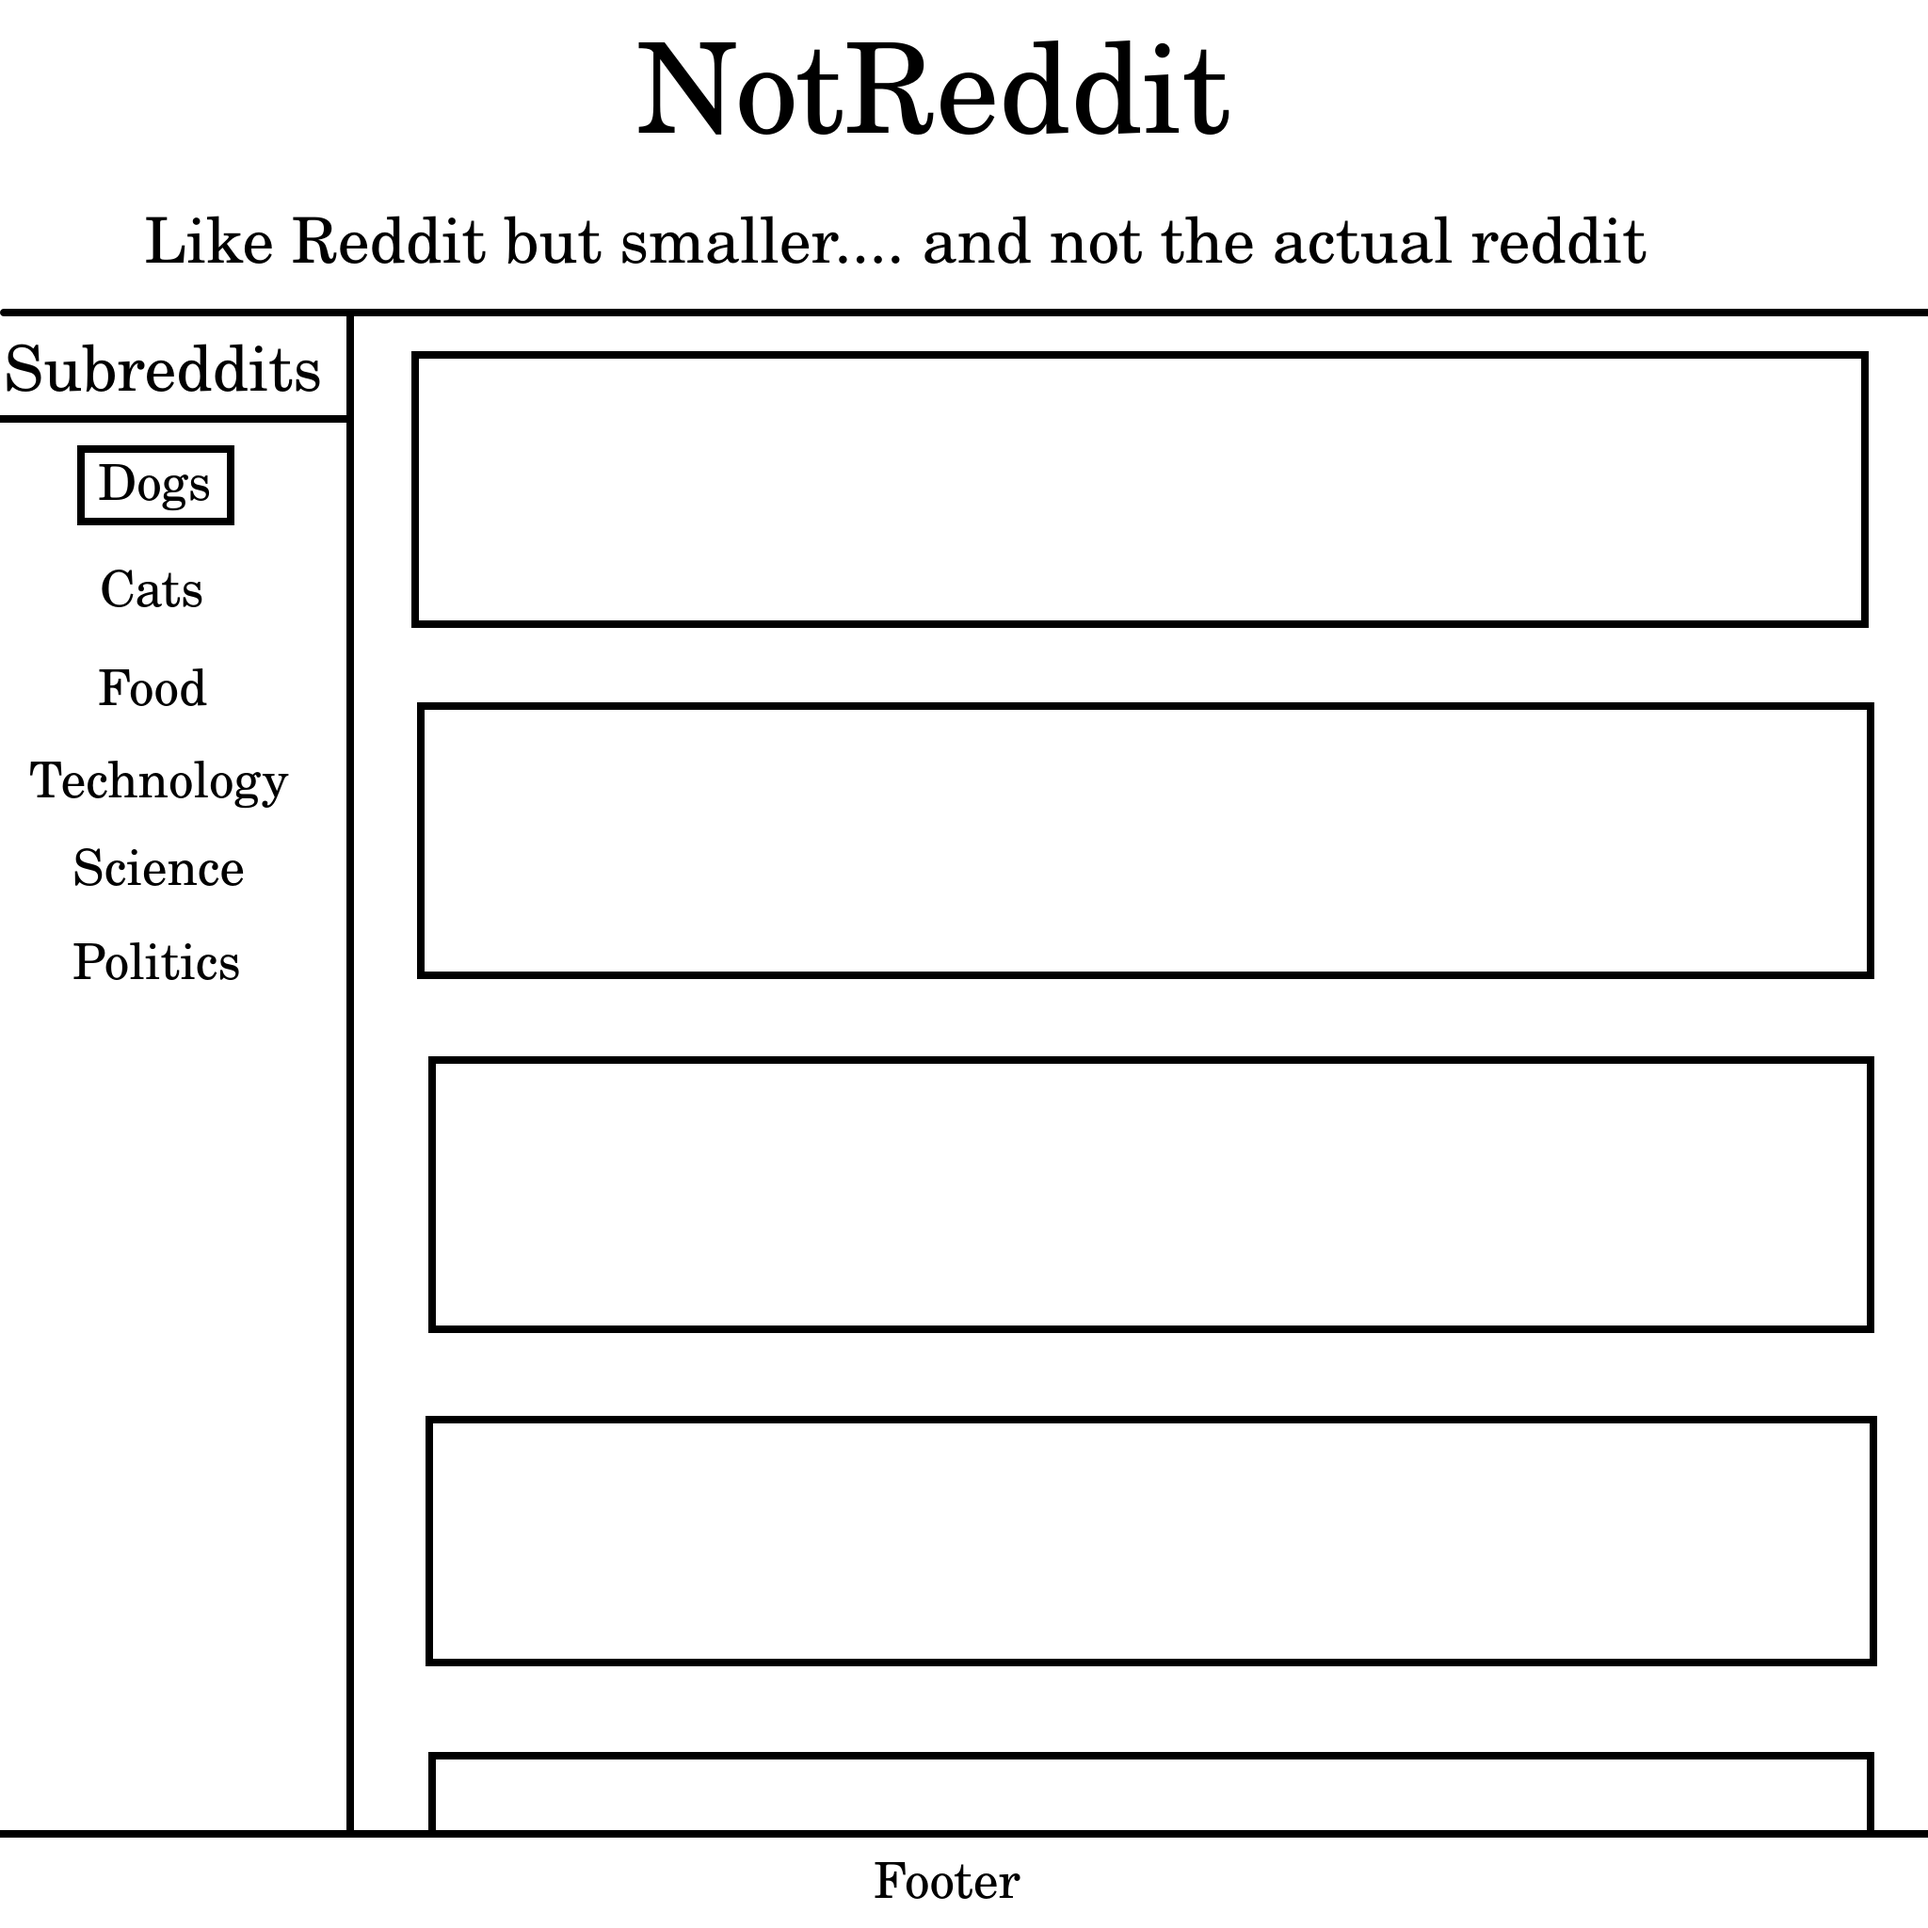
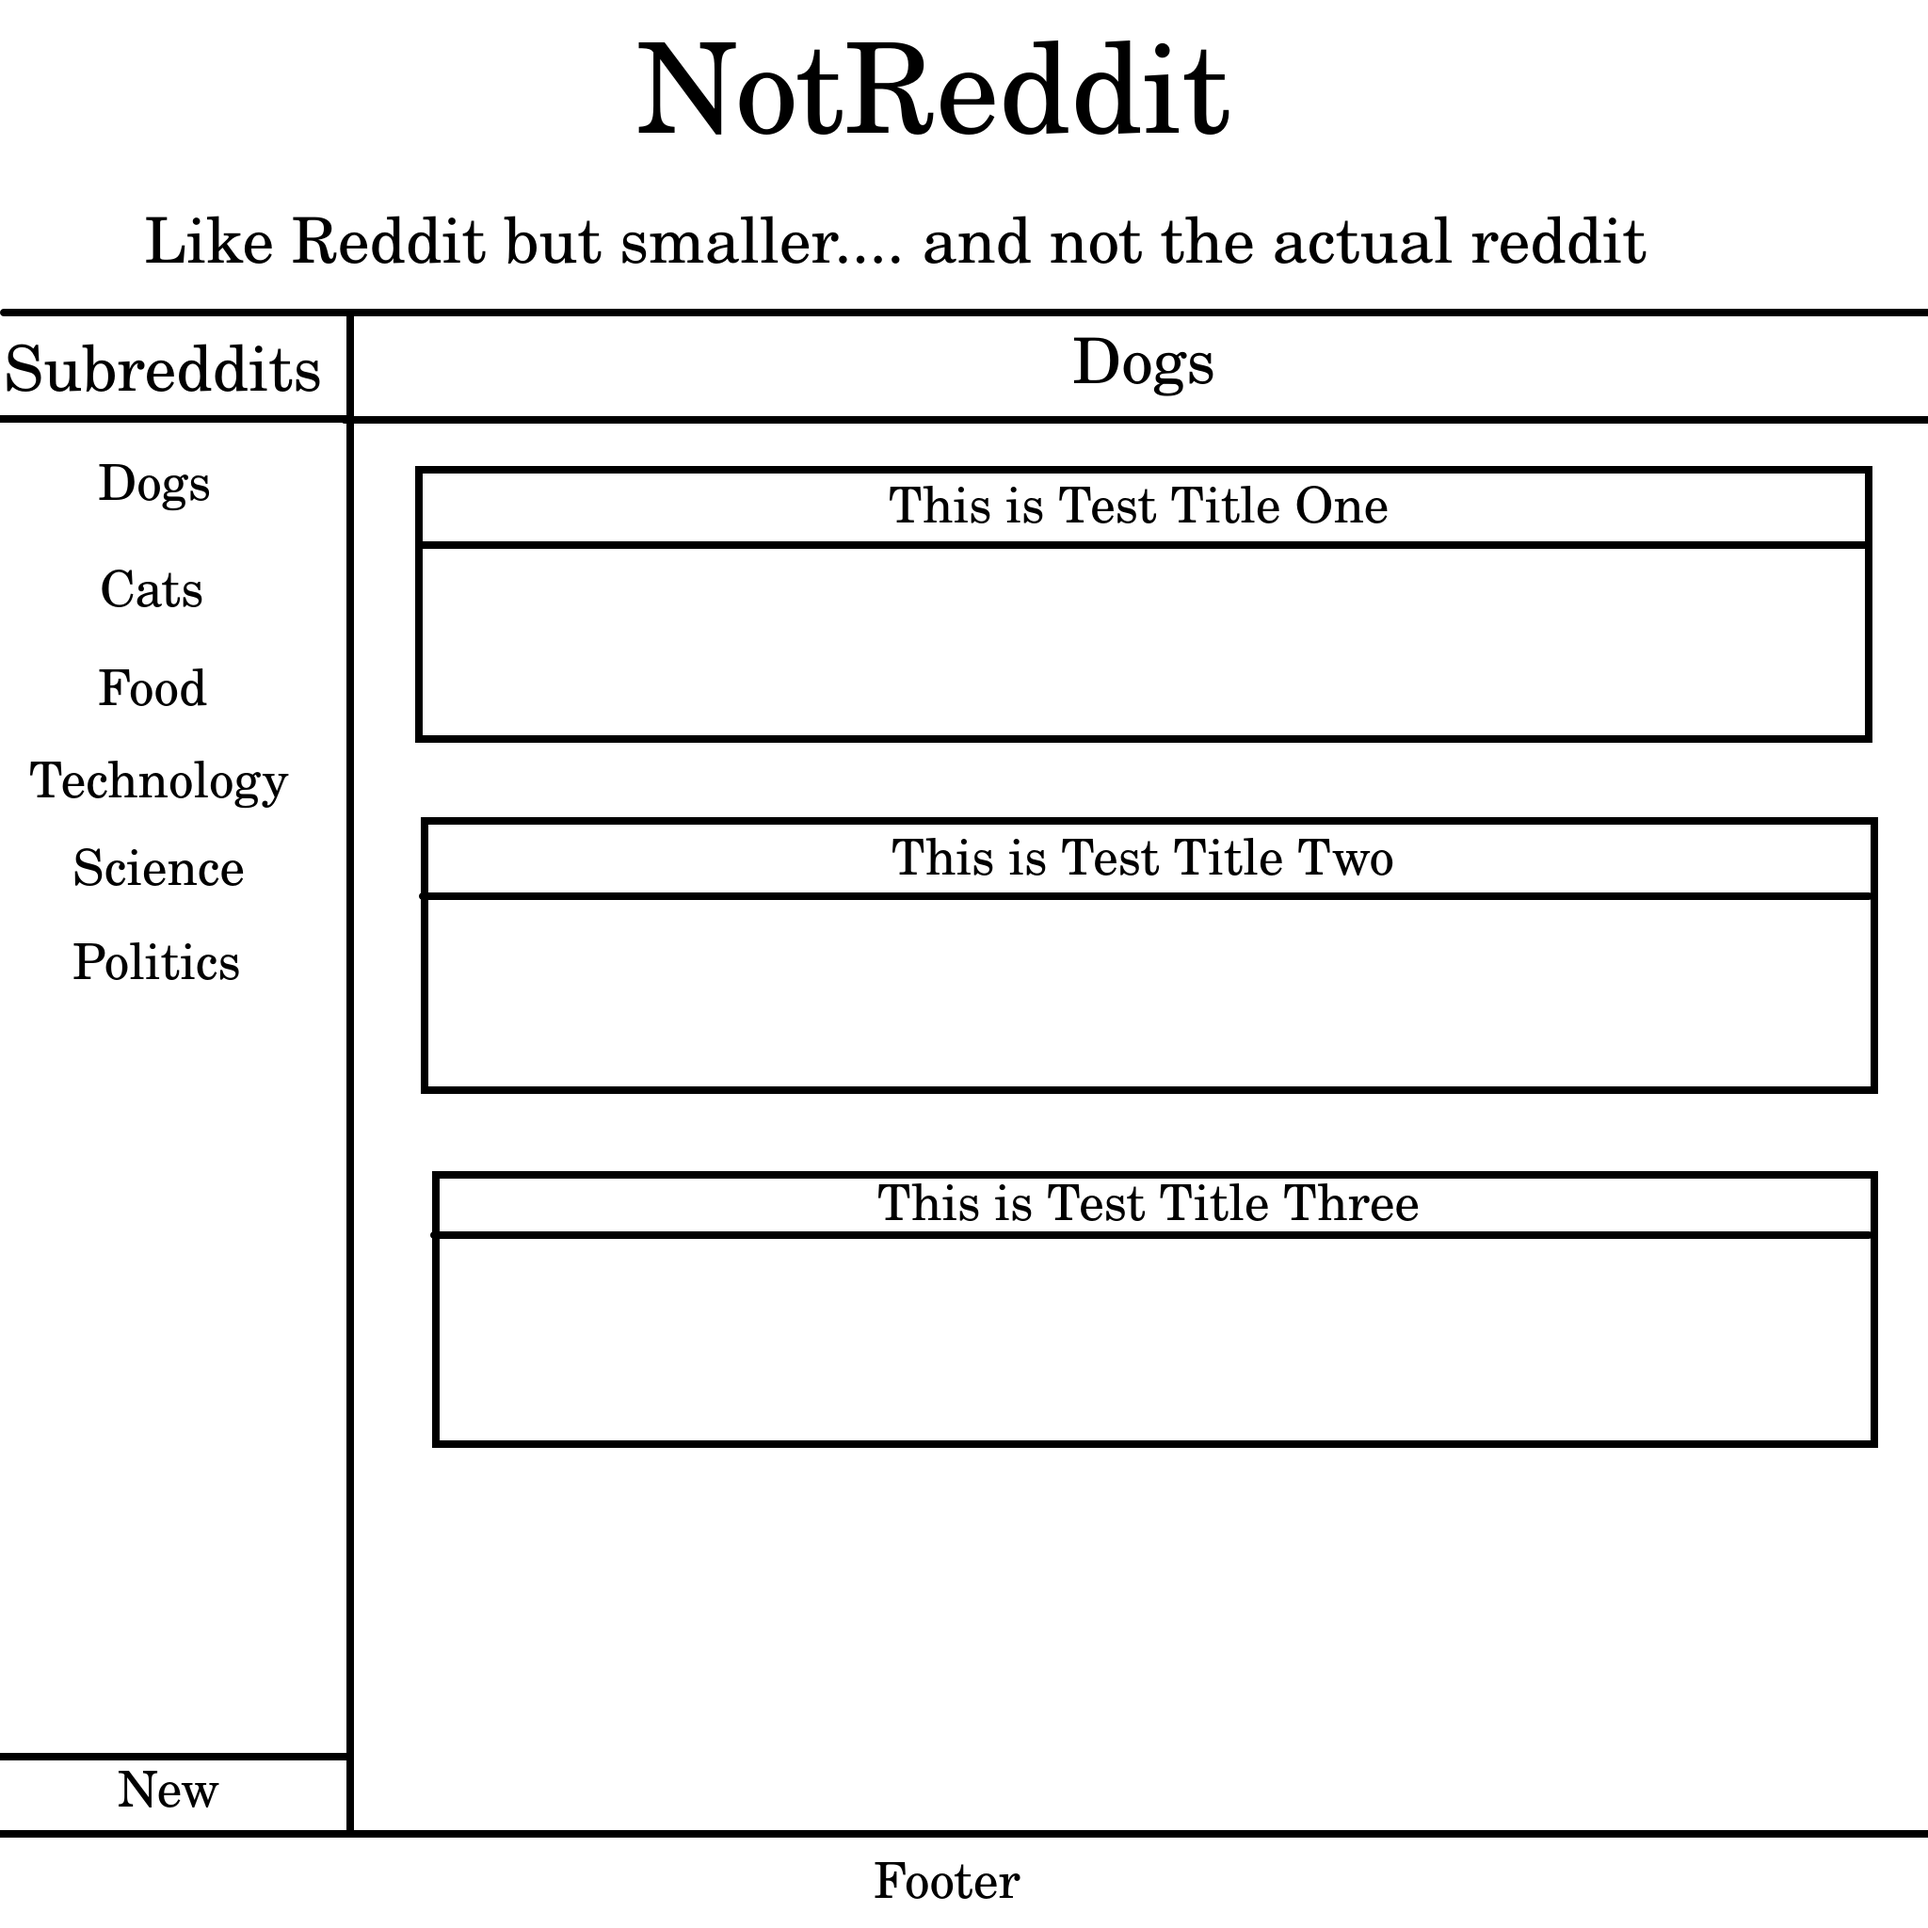
configured db queries for main view and controller

diff --git a/app/assets/stylesheets/main.scss b/app/assets/stylesheets/main.scss
@@ -1,0 +1,56 @@
+#mainContent {
+	border: 2px dashed red;
+	display: flex;
+	flex-flow: row wrap;
+}
+
+#navBar {
+	flex: 1;
+	border: 1px solid black;
+	display: flex;
+	flex-direction: column;
+	align-items: center;
+	padding: 10px;
+}
+
+#navBar h1 {
+	padding-bottom: 10px;
+}
+
+#navBar p {
+	font-size: 1.4rem;
+}
+
+#postCont {
+	flex: 6;
+	display: flex;
+	flex-direction: column;
+	gap: 20px;
+}
+
+#subTitle {
+	border: 2px dashed black;
+	display: flex;
+	flex-direction: column;
+	justify-content: center;
+	align-items: center;
+	gap: 5px;
+	padding: 10px;
+}
+
+#postContent {
+	display: flex; 
+	flex-direction: column;
+	gap: 20px;
+	padding: 20px;
+}
+
+.post {
+	border: 2px dotted blue;
+	display: grid;
+	grid-template-rows: 1fr 2fr;
+	justify-content: center;
+	align-items: center;
+	text-align: center;
+	padding: 20px;
+}

diff --git a/app/assets/stylesheets/application.css b/app/assets/stylesheets/application.css
@@ -13,3 +13,36 @@
  *= require_tree .
  *= require_self
  */
+
+ * {
+	padding: 0;
+	margin: 0;
+ }
+
+ body {
+	display: grid;
+	grid-template-rows: 1fr 3fr 0.3fr;
+ }
+
+ #header {
+	display: grid;
+	grid-template-rows: repeat(2, 1fr);
+	justify-content: center;
+	text-align: center;
+	align-items: center;
+	padding: 30px 10px 10px 10px;
+ }
+
+ #header h1 {
+	font-size: 3.5rem;
+ }
+
+ #header p {
+	font-size: 1.3rem;
+ }
+
+ #footer {
+	display: flex;
+	justify-content: center;
+	align-items: center;
+ }

diff --git a/app/controllers/main_controller.rb b/app/controllers/main_controller.rb
@@ -1,4 +1,16 @@
 class MainController < ApplicationController
   def index
+  	@subreddits = Subreddit.all
+	if params[:name]
+		@selectedSubreddit = Subreddit.find_by(:name => params[:name].capitalize())
+		
+		# if the name passed into the params doesn't return a subreddit,
+		# then default to the first one 
+		if @selectedSubreddit.nil?
+		  @selectedSubreddit = Subreddit.find(1)
+		end
+	else
+		@selectedSubreddit = Subreddit.find(1)
+	end	
   end
 end

diff --git a/config/routes.rb b/config/routes.rb
@@ -3,5 +3,6 @@ Rails.application.routes.draw do
 	
   root to: "main#index"
 
-  get "/users", to: "users#index"
+  # route for the different subreddits
+  get "/:name", to: "main#index", as: "main"
 end
